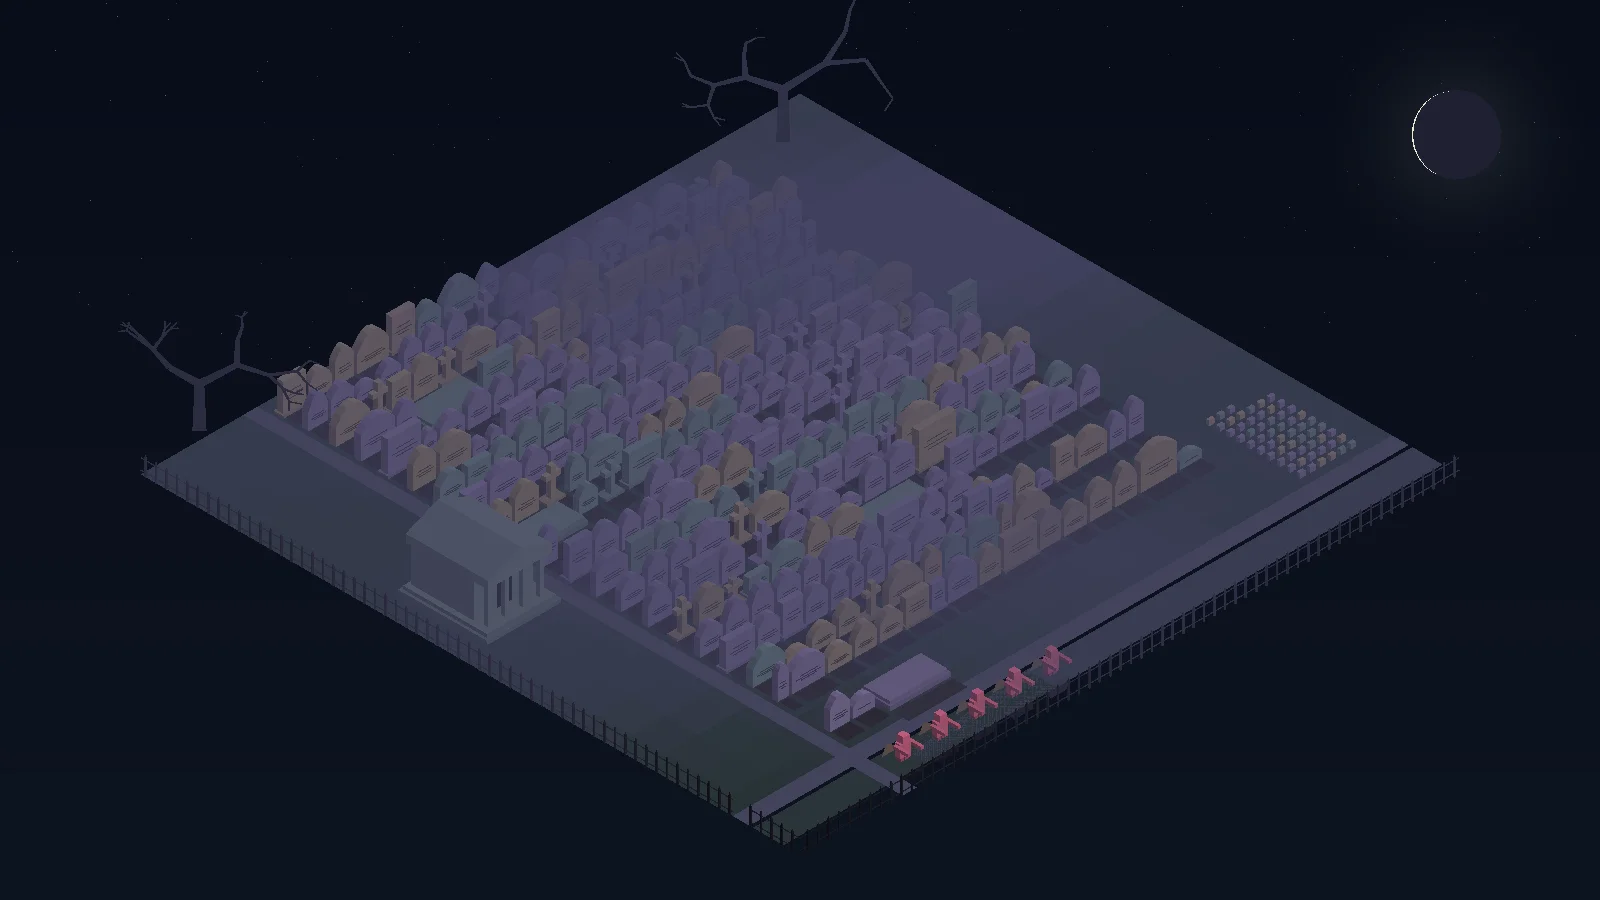
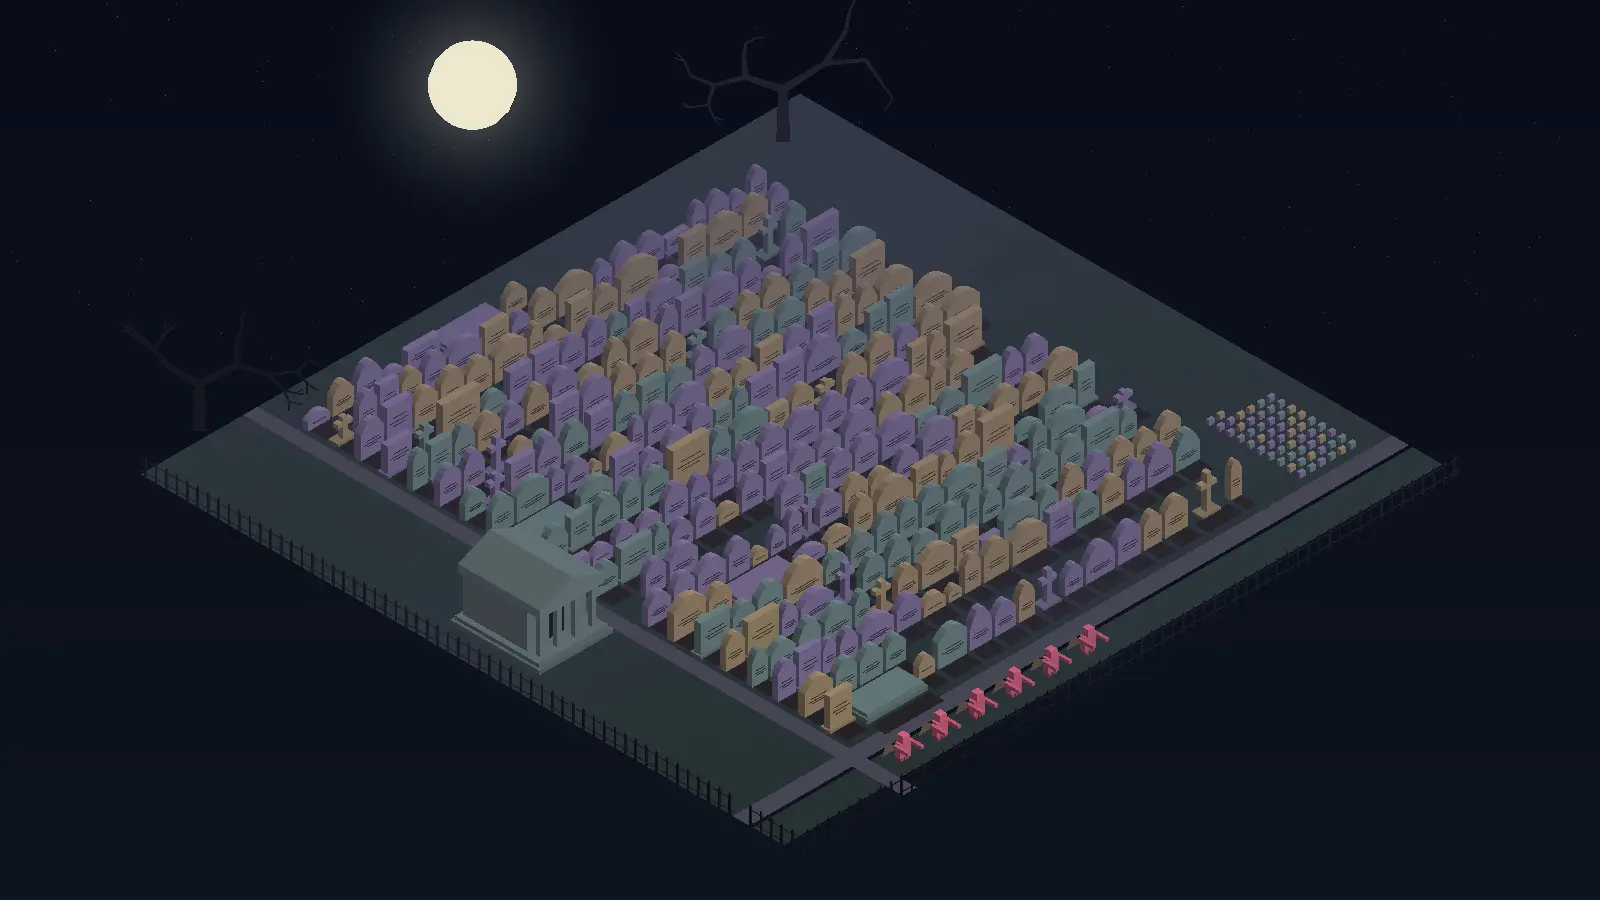
docs: regenerate the necropolis media for the moon's real sky
The still, the filmstrip, the contact sheet and the README image now show a
moon that is up over the demo home at the chosen time (a full moon high in
the south-east; the filmstrip has a crescent, first quarter, full and last
quarter), and the wiki, README and Gallery text says where it is. The code
report is regenerated for the changed text.

diff --git a/wiki/View-Necropolis.md b/wiki/View-Necropolis.md
@@ -3,7 +3,7 @@
 A moonlit cemetery of exited processes. Each death becomes a headstone in the row of its UTC minute, the newest row in front and the older ones receding into fog. A stone's height is the process's lifetime CPU time and its width the most memory it ever held; its tint is its kind; its epitaph (on hover or click) says how it died. Zombies stand in open pits in front, waiting to be reaped; a service
 whose processes are all gone gets a mausoleum; a ghost rises over a grave when a new process takes the buried pid; the fog thickens with memory pressure; and the moon is the real moon, its phase computed from the date. It is the view about what survives a process's death, and how little.
 
-![Necropolis: rows of headstones by minute of death fading into fog, zombies in open pits at the front, a mausoleum and a waning moon](https://raw.githubusercontent.com/tfpickard/isotop/main/docs/media/renders/necropolis.webp)
+![Necropolis: rows of headstones by minute of death fading into fog, zombies in open pits at the front, a mausoleum and a full moon high in the sky strip](https://raw.githubusercontent.com/tfpickard/isotop/main/docs/media/renders/necropolis.webp)
 
 ![The README image of the same view](https://raw.githubusercontent.com/tfpickard/isotop/main/docs/media/necropolis.webp)
 
@@ -140,7 +140,7 @@ the rest are headstones: `dig` fixes everything the grave shows (names, cause, s
 ## Reading the picture
 
 What I see in the demo render: a grey-violet plot seen from above at an isometric angle, about ten rows of headstones in lilac, sandstone and slate-green, in varied shapes (rounded, gothic arch, slab, small crosses) receding to the back where they disappear into pale violet fog; a pillared grey mausoleum at the left end of a middle row; a small field of tiny stones at the right (the unmarked markers); five pink figures in a line in front, standing in pits (the demo's
-zombies); two bare oaks against a starry sky; and no moon: the demo's clock (`DEMO_EPOCH`, 04:12 UTC on 2026-10-10) is 11.6 hours before a new moon and Amsterdam's horizon, so the legend says `moon: new moon 0% lit, below the horizon`. At `--time 650800` it is a waxing moon about 41 % lit, low in the south, lit on the right, behind the oak at the top of the frame.
+zombies); two bare oaks against a starry sky; and, at the upper left, a full moon with a soft glow, drawn at `--time 1353579` (a full moon 39 degrees up in the south-east over Amsterdam, 15.7 days into the demo). At the demo's own clock (`DEMO_EPOCH`, 04:12 UTC on 2026-10-10, 11.6 hours before a new moon) the moon is below Amsterdam's horizon and not drawn: the legend says `moon: new moon 0% lit, below the horizon`. At `--time 650800` it is a waxing moon about 41 % lit, low in the south, lit on the right, behind the oak at the top of the frame.
 
 * **Measured:** the cause (a wait status or an OOM counter), lifetime CPU and peak memory (taskstats or last sample), the kind and cgroup of the process as last seen, the minute of death, the count of deaths per minute, the number of zombies, memory pressure.
 * **Derived:** the row and position (grouped by family), the choice of mass graves, the mausoleum (a unit with three or more graves and no survivors), the OOM attribution (a heuristic: a SIGKILL in a cgroup whose counter rose within one sample claims its largest victim), the ghost.

diff --git a/wiki/Gallery.md b/wiki/Gallery.md
@@ -131,10 +131,11 @@ Demo render at `--time 120`.
 
 ![Necropolis](https://raw.githubusercontent.com/tfpickard/isotop/main/docs/media/renders/necropolis.webp)
 
-Demo render at `--time 1383062`.
+Demo render at `--time 1353579`.
 
-The Necropolis still is at demo day 16.0, a real full moon: its moon is computed from the demo wall
-clock, so `--time` changes the phase. It is also at the trough of the demo's memory-pressure wave, which sets the
+The Necropolis still is at demo day 15.7, a full moon high in the south-east over the demo's home
+(Amsterdam): its moon is computed from the demo wall clock and home, so `--time` changes both the phase and where
+it stands, and it is only drawn while it is above the horizon. It is also at the trough of the demo's memory-pressure wave, which sets the
 fog density, so the fog is at its base level.
 
 ### [Cortex](View-Cortex)
@@ -212,8 +213,9 @@ already full at every time here: this is a sliding window, not a build-up.
 
 ![Strata filmstrip](https://raw.githubusercontent.com/tfpickard/isotop/main/docs/media/renders/filmstrip-strata.webp)
 
-**[Necropolis](View-Necropolis)** across a lunation, at 0, 8.6, 16.0 and 23.4 days (thin crescent, first quarter,
-full, last quarter), all at zero fog pressure. It replays 600 s from before time 0, so there is no build-up to show.
+**[Necropolis](View-Necropolis)** across a lunation, at 3.5, 8.6, 15.7 and 22.9 days (waxing crescent low in the
+south-south-west, first quarter on the meridian, full moon high in the south-east, last quarter rising in the east),
+all at zero fog pressure. It replays 600 s from before time 0, so there is no build-up to show.
 
 ![Necropolis filmstrip](https://raw.githubusercontent.com/tfpickard/isotop/main/docs/media/renders/filmstrip-necropolis.webp)
 

diff --git a/docs/METRICS.md b/docs/METRICS.md
@@ -10,12 +10,12 @@ tokei over the repository (ignored files and hidden directories skipped, `docs/M
 |:--|--:|--:|--:|--:|
 | Rust | 153 | 98,787 | 2,157 | 5,954 |
 | SVG | 89 | 39,920 | 9 | 0 |
-| Python | 121 | 22,921 | 833 | 3,073 |
+| Python | 121 | 22,921 | 837 | 3,073 |
 | WebGPU Shader Language | 1 | 255 | 27 | 40 |
 | TOML | 4 | 66 | 1 | 11 |
-| Markdown | 91 | 0 | 14,891 | 5,213 |
+| Markdown | 91 | 0 | 14,893 | 5,213 |
 | Plain Text | 11 | 0 | 335 | 0 |
-| **Total** | **470** | **161,949** | **18,253** | **14,291** |
+| **Total** | **470** | **161,949** | **18,259** | **14,291** |
 
 ## Rust by module
 

diff --git a/README.md b/README.md
@@ -671,7 +671,7 @@ Keys while the tesseract is shown: `,` and `.` turn a quarter turn back and forw
 
 ### Necropolis
 
-![Necropolis: rows of headstones by minute of death fading into fog, zombies in open pits at the front, a mausoleum and the waning moon](docs/media/necropolis.webp)
+![Necropolis: rows of headstones by minute of death fading into fog, zombies in open pits at the front, a mausoleum and a full moon high in the sky strip](docs/media/necropolis.webp)
 
 How it works, and the science and history behind it: [docs/theory/necropolis.md](docs/theory/necropolis.md).
 
